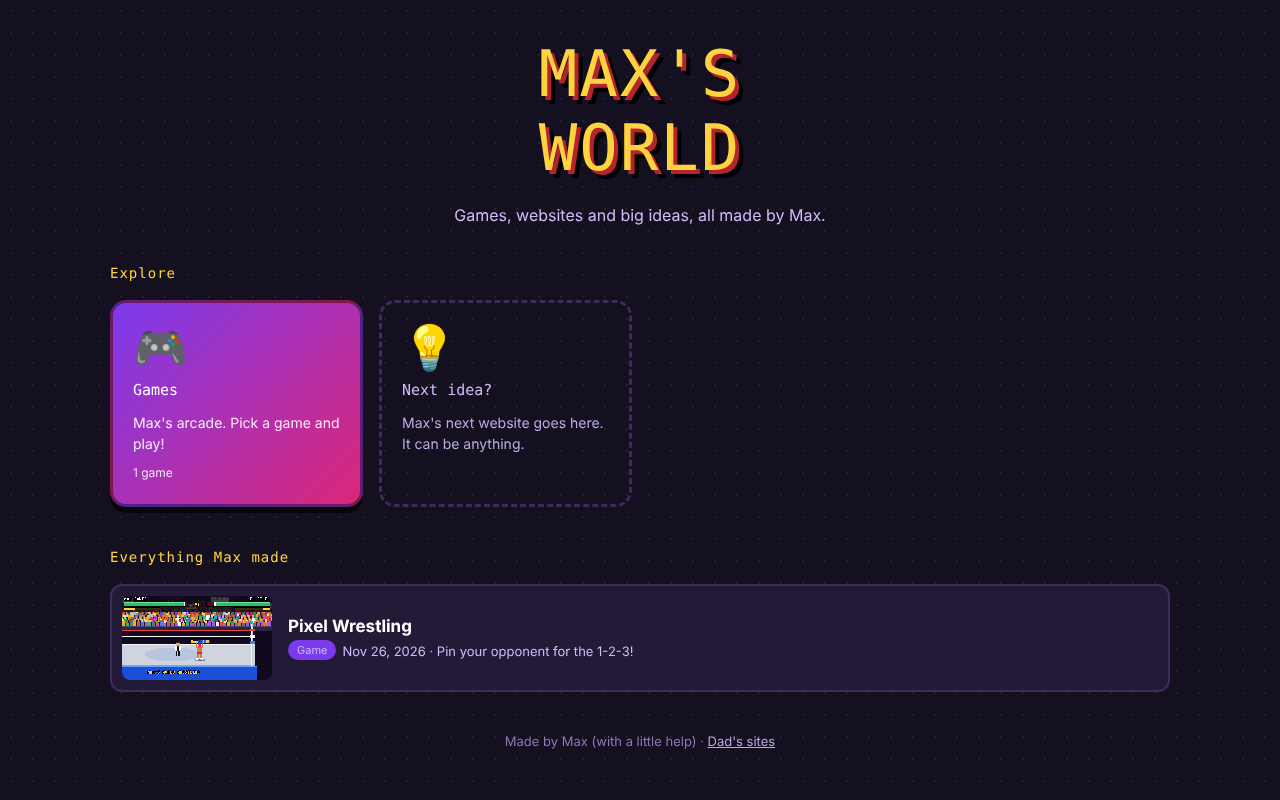
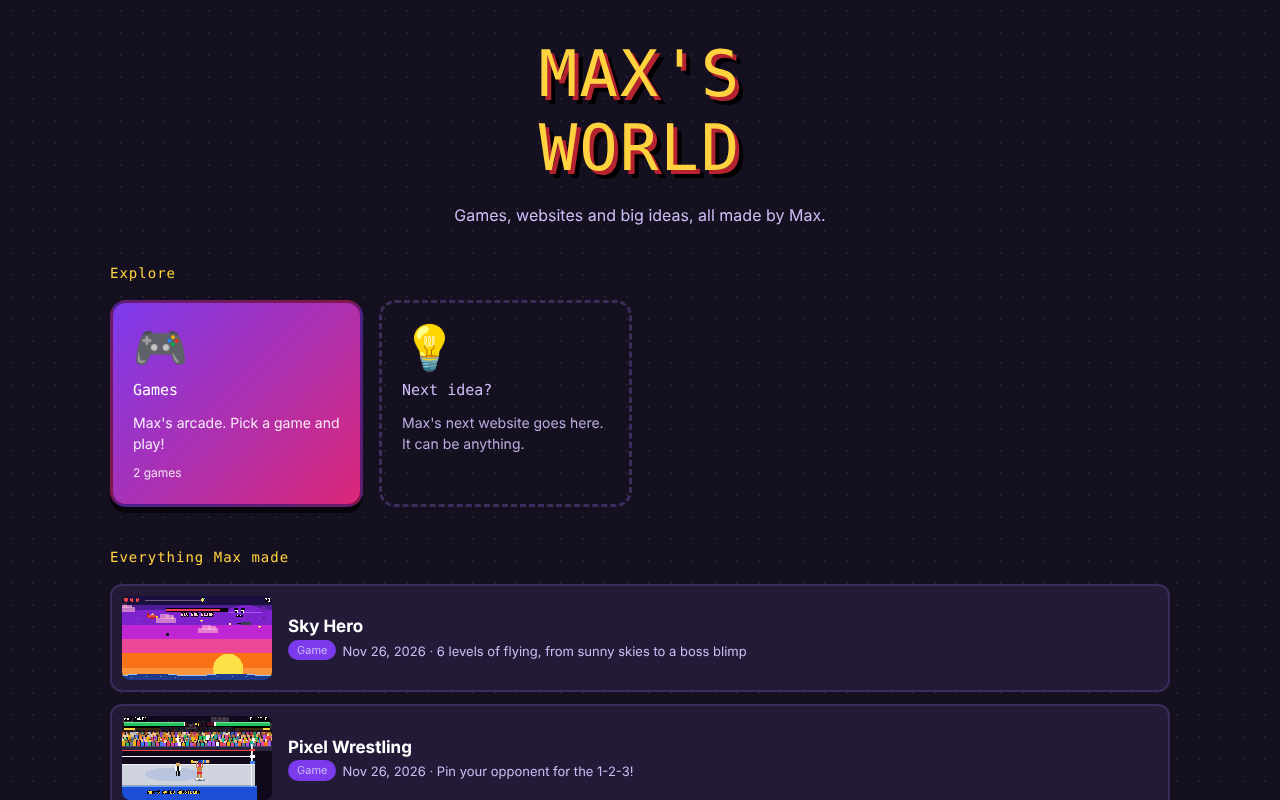
Gallery: add Sky Hero to Max's World
Claude-Session: https://claude.ai/code/session_018hqfrBJCELPut3aKH7ERzi

Changed region(s): [[0.0938, 0.7188, 0.5938, 1.0], [0.3438, 0.8125, 0.5625, 0.8438], [0.0938, 0.5625, 0.125, 0.5938]]

diff --git a/index.html b/index.html
@@ -85,6 +85,10 @@
         <img loading="lazy" src="previews/pixel-wrestling.png" alt="Pixel Wrestling game: a pixel wrestler lifting his opponent for a body slam" width="1280" height="720">
         <div class="caption"><span class="name">Pixel Wrestling</span><span class="note">Game · Nov 26</span></div>
       </a>
+      <a class="card" href="https://rrolfe.github.io/maxsworld/games/sky-hero/">
+        <img loading="lazy" src="previews/sky-hero.png" alt="Sky Hero game: a red pixel airplane battling a giant purple blimp at sunset" width="1280" height="720">
+        <div class="caption"><span class="name">Sky Hero</span><span class="note">Game · 6 levels · Nov 26</span></div>
+      </a>
     </div>
   </section>
   <section aria-labelledby="boo-heading">
